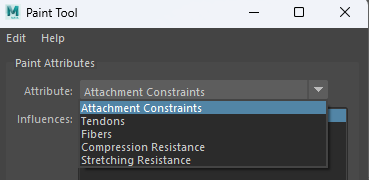
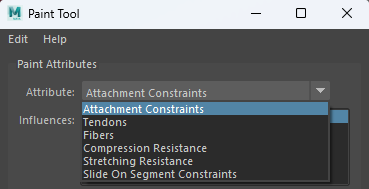
Created maya tools page for documentation.  - Updated outdated paint tool images.  - Added COnnection editor images.

diff --git a/docs/documentation/maya/tools.md b/docs/documentation/maya/tools.md
@@ -1,0 +1,116 @@
+# Tools
+
+AdonisFX includes several tools to allow for a better experience when setting up deformers. In this page these tools will get detailed, with the specifications on how they work on each deformer and how to properly set the mup and use them.
+
+## AdonisFX Paint Tool
+
+To configure the paintable attributes in Adonis deformers, the AdonisFX paint tool must be used. Apart from the standard functionalities that the Maya default paint context provides, this tool also processes the painted weights to guarantee that the requirements of the specific solver of the selected deformer are satisfied.
+
+<figure>
+  <img src="images/paint_tool.png" caption="AdonisFX Paint Tool"> 
+  <figcaption>Figure 1: AdonisFX Paint Tool</figcaption>
+</figure>
+
+Do the following to open the tool:
+
+  1. Select the mesh with the Adonis deformer applied to.
+  2. Press the paint tool ![paint tool](images/adn_paint_tool.png) shelf button or go to AdonisFX menu > Paint Tool.
+
+The selected attribute in the enumerator exposed at the top of the UI is the active attribute in the paint context. Now you can use the tool as it was the Artisan's tool from Maya, the behaviour of the different widgets/fields is the same.
+
+### AdonisFX Paint Tool on AdnMuscle deformers (volumetric and ribbon)
+
+In the specific case of adnMuscle deformers, the AdonisFX Paint Tool will display the following attributes:
+
+<figure markdown> 
+  ![Pain Tool Skin Attributes example](images/paint_tool_ribbon_attributes.png) 
+  <figcaption> Figure 3: AdonisFX paint tool displaying the paintable attributes of the deformer. </figcaption> 
+</figure>
+
+Following, we present the key aspects to keep in mind while painting each muscle attribute:
+
+  - **Attachment Constraints**
+    1. If this attribute type is selected, then a list widget is shown with the names of the attachments connected to the Ribbon Muscle deformer.
+    2. Select the desired attachment you want to paint from the list widget and paint the weight values.
+    3. When selecting an attachment in the list, it will also get selected in the scene, facilitating its identification.
+    4. If more than one attachment was added to the system, then the paint tool will normalise the weights automatically after a stroke has been completed, meaning that the addition of all attachment constraint weights in a vertex will always add up to a maximum value of 1.0.
+    5. If any attachment is removed or added to the system, then the paint tool will refresh the list on mouse hover over the UI.
+
+    <figure>
+      <img src="images/paint_tool_attachment_attribute.png"> 
+      <figcaption>Figure 2: AdonisFX Paint Tool</figcaption>
+    </figure>
+
+  - **Tendons**
+    1. We recommend to paint values of 1.0 wherever the tendon tissue is and values of 0.0 in the rest of the mesh.
+    2. This painting will internally trigger an automatic estimation of fibers directions.
+  - **Fibers**
+    1. When selecting the fibers attribute, the fibers debugger will automatically get enabeled, displaying the [muscle fibers](muscle.md#debug).
+    2. The initial direction displayed will be the one set by tendon weights.
+    3. To modify the fibers direction, comb the fibers towards the desired direction.
+    4. For better precission adjust the set direction using the *Smooth* brush.
+    5. To get all fibers better aligned in a more homogeneous way, press the flood button while having the *Smooth* brush selected.
+  - **Stretching and Compression Resistance**
+    1. Stretching resistance is set to 1.0 by default. With this value, the solver will apply the corrections to the edges needed to keep the lengths at rest. Set values lower than 1.0 to linearly reduce the amount of correction applied by the solver when the edges get stretched.
+    2. Compression resistance is set to 1.0 by default. With this value, the solver will apply the corrections to the edges needed to keep the lengths at rest. Set values lower than 1.0 to linearly reduce the amount of correction applied by the solver when the edges get compressed.
+  - **Slide on Segment Constraints**
+    1. Slide on Segment Constraints operate similarly to attachment constraints, as they are both multi-influence attributes.
+    2. The entries in the list widget correspond in this case to the segments added to the constraint, with the name of the segment being "*root_transform* - *tip_transform*".
+    2. Select the desired segment you want to paint from the list widget and paint the weight values.
+    4. When selecting a segment in the list the two scene objects that form the root and tip of the segment will get selected as well, facilitating its identification.
+    5. If more than one segment was added to the system, then the paint tool will normalise the weights automatically after a stroke has been completed, meaning that the addition of all slide on segment constraint weights in a vertex will always add up to a maximum value of 1.0.
+
+### AdonisFX Paint Tool on AdnSkin deformers
+
+In the specific case of adnSkin deformers, the AdonisFX Paint Tool will display the following attributes:
+
+<figure markdown> 
+  ![Pain Tool Skin Attributes example](images/paint_tool_skin_attributes.png) 
+  <figcaption> Figure 4: Paintable attributes listed in the UI for adnSkin deformers. </figcaption>
+</figure>
+
+Following, we present the key aspects to keep in mind while painting each muscle attribute:
+
+  - **Hard Constraints**
+    1. Hard constraints are set to 1.0 by default. With this value the solver will apply the corrections to the vertices needed to keep them at a constant transformation, local to the closest point on the reference mesh at initialization.
+    2. This value is normalised alongside Soft Constraints and Slide Constraints.
+  - **Soft Constraints**
+    1. Soft constraints are set to 0.0 by default. With this value the solver will apply no corrections to the vertices regarding the vertices keeping a constant distanche to the closest point of the reference mesh.
+    2. This value is normalised alongside Hard Constraints and Slide Constraints.
+  - **Slide Constraints**
+    1. Slide constraints are set to 0.0 by default. With this value the solver will apply no corrections to the vertices regarding the sliding of the simulated mesh along the reference surface.
+    2. This value is normalised alongside Hard Constraints and Soft Constraints.
+  - **Stretching and Compression Resistance**
+    1. Stretching resistance is set to 1.0 by default. With this value, the solver will apply the corrections to the edges needed to keep the lengths at rest. Set values lower than 1.0 to linearly reduce the amount of correction applied by the solver when the edges get stretched.
+    2. Compression resistance is set to 1.0 by default. With this value, the solver will apply the corrections to the edges needed to keep the lengths at rest. Set values lower than 1.0 to linearly reduce the amount of correction applied by the solver when the edges get compressed.
+  - **Sliding distance Multiplier**
+    1. Sliding distance Multiplier is set to 1.0 by default. With this value, every vertex of the geometry will be able to slide along every vertex of the reference surface.
+    2. It is suggested to lower the value in those areas where slide constraints are less relevant or not present for better performance without losing quality.
+  - **Masses**
+    1. Masses are set to 1.0 by default. This will mean that by default the solver will consider that the skin has a uniform mass.
+
+## AdonisFX Sensors Connection Editor
+
+To ease with the connection of sensors to deformers AdonisFX has the **AdonisFX Sensors Connection Editor**, a simple to use, yet robust tool that simplifies greatly this process.
+
+To use this tool go to the AdonisFX menu > Sensors (under the *Edit* section) > Connection Editor.
+
+<figure markdown> 
+  ![Pain Tool Skin Attributes example](images/sensor_conection_editor_empty.png) 
+  <figcaption> Figure 3: Sensor connection editor after opening it for the first time. </figcaption>
+</figure>
+
+We can distinguish two main sections in this tool, labeled *source* and *destination*. In the source section the [sensors](sensors.md), alongside their signal attributes, will get displayed and in the destination section the **deformers**, alongside their possible input attributes, will get displayed.
+
+To retrieve these objects and display them in the tool, select the desired element from the scene (an Adonis locator containing a sensor or a deformer) and press their respective **Reload Left** or **Reload Right** button.
+
+For source elements (sensors) press the **Reload Left** button and for destination elements (deformers) press the **Reload Right** button.
+
+<figure markdown> 
+  ![Pain Tool Skin Attributes example](images/sensor_conection_editor.png) 
+  <figcaption> Figure 4: Sensor connection editor after adding sensors and deformers from the selection. </figcaption>
+</figure>
+
+To make the connections just select the two specific attributes you want to connect (one from *source* and one from *destination*) and press the **Make Connection** button. A message will then get displayed announcing that the connection has been propperly made.
+
+If you wish to clear the selection to reset the tool to its initial state, press the **Clear All** button.
